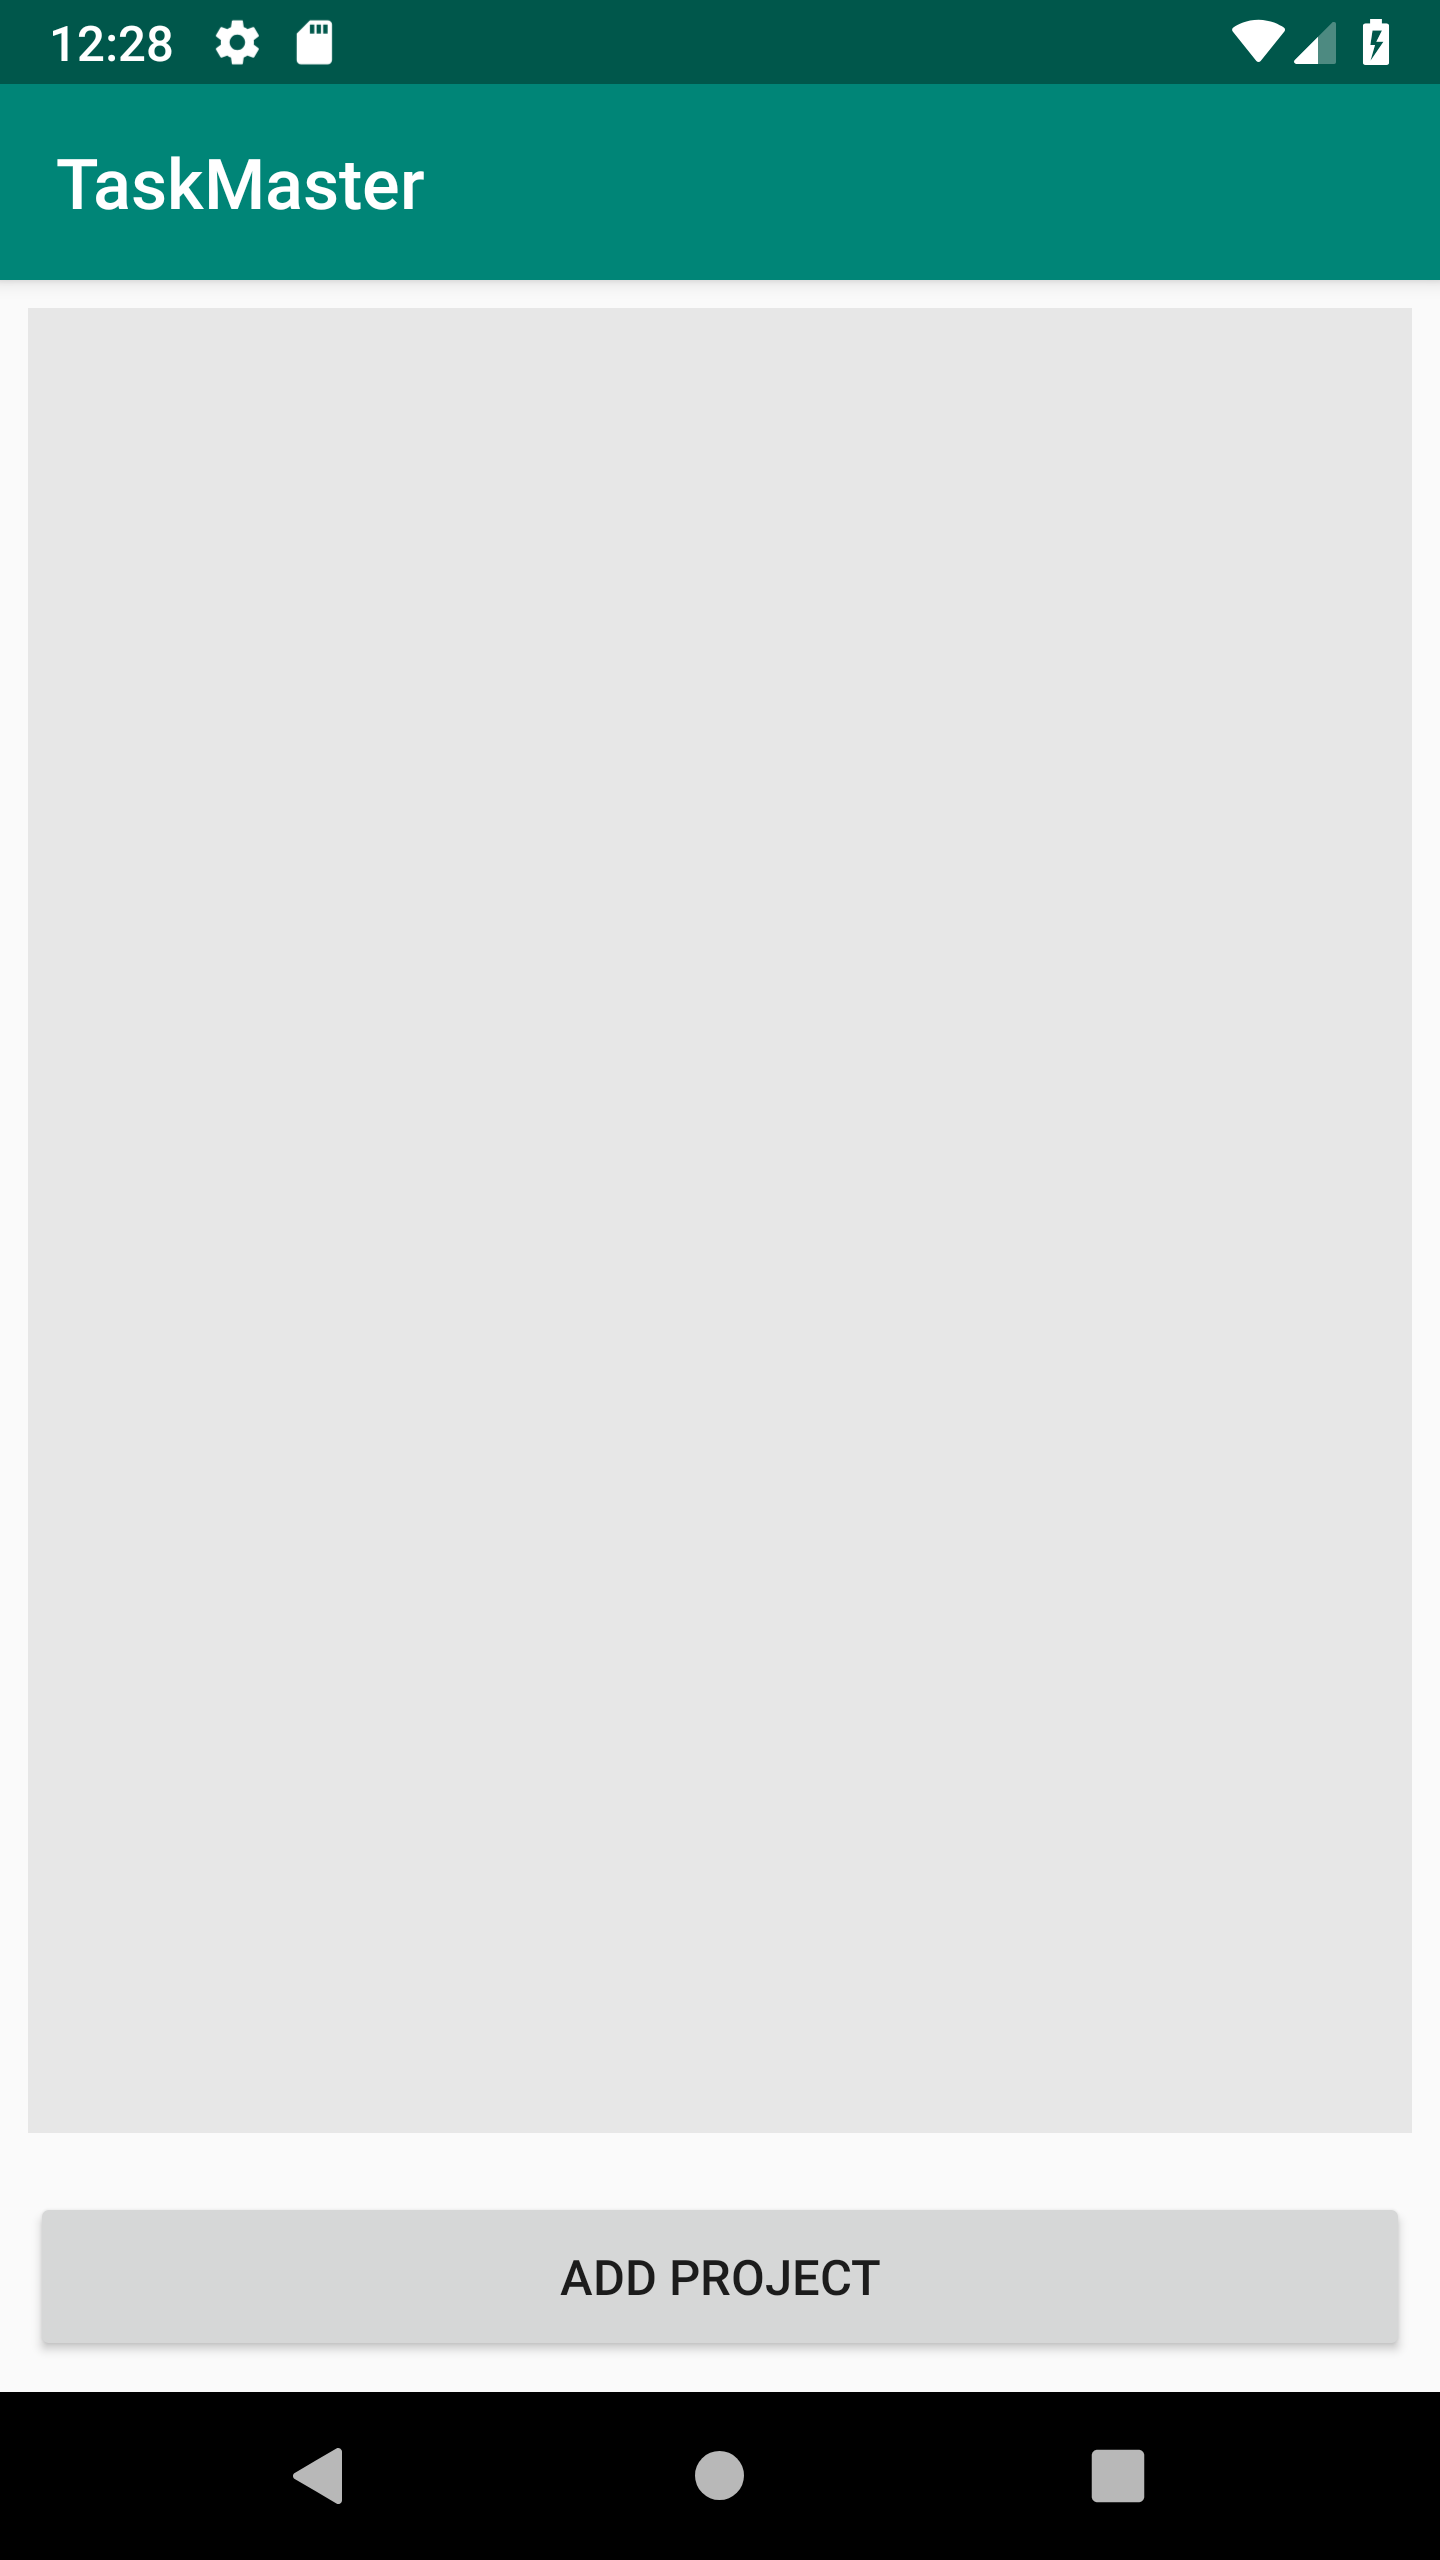
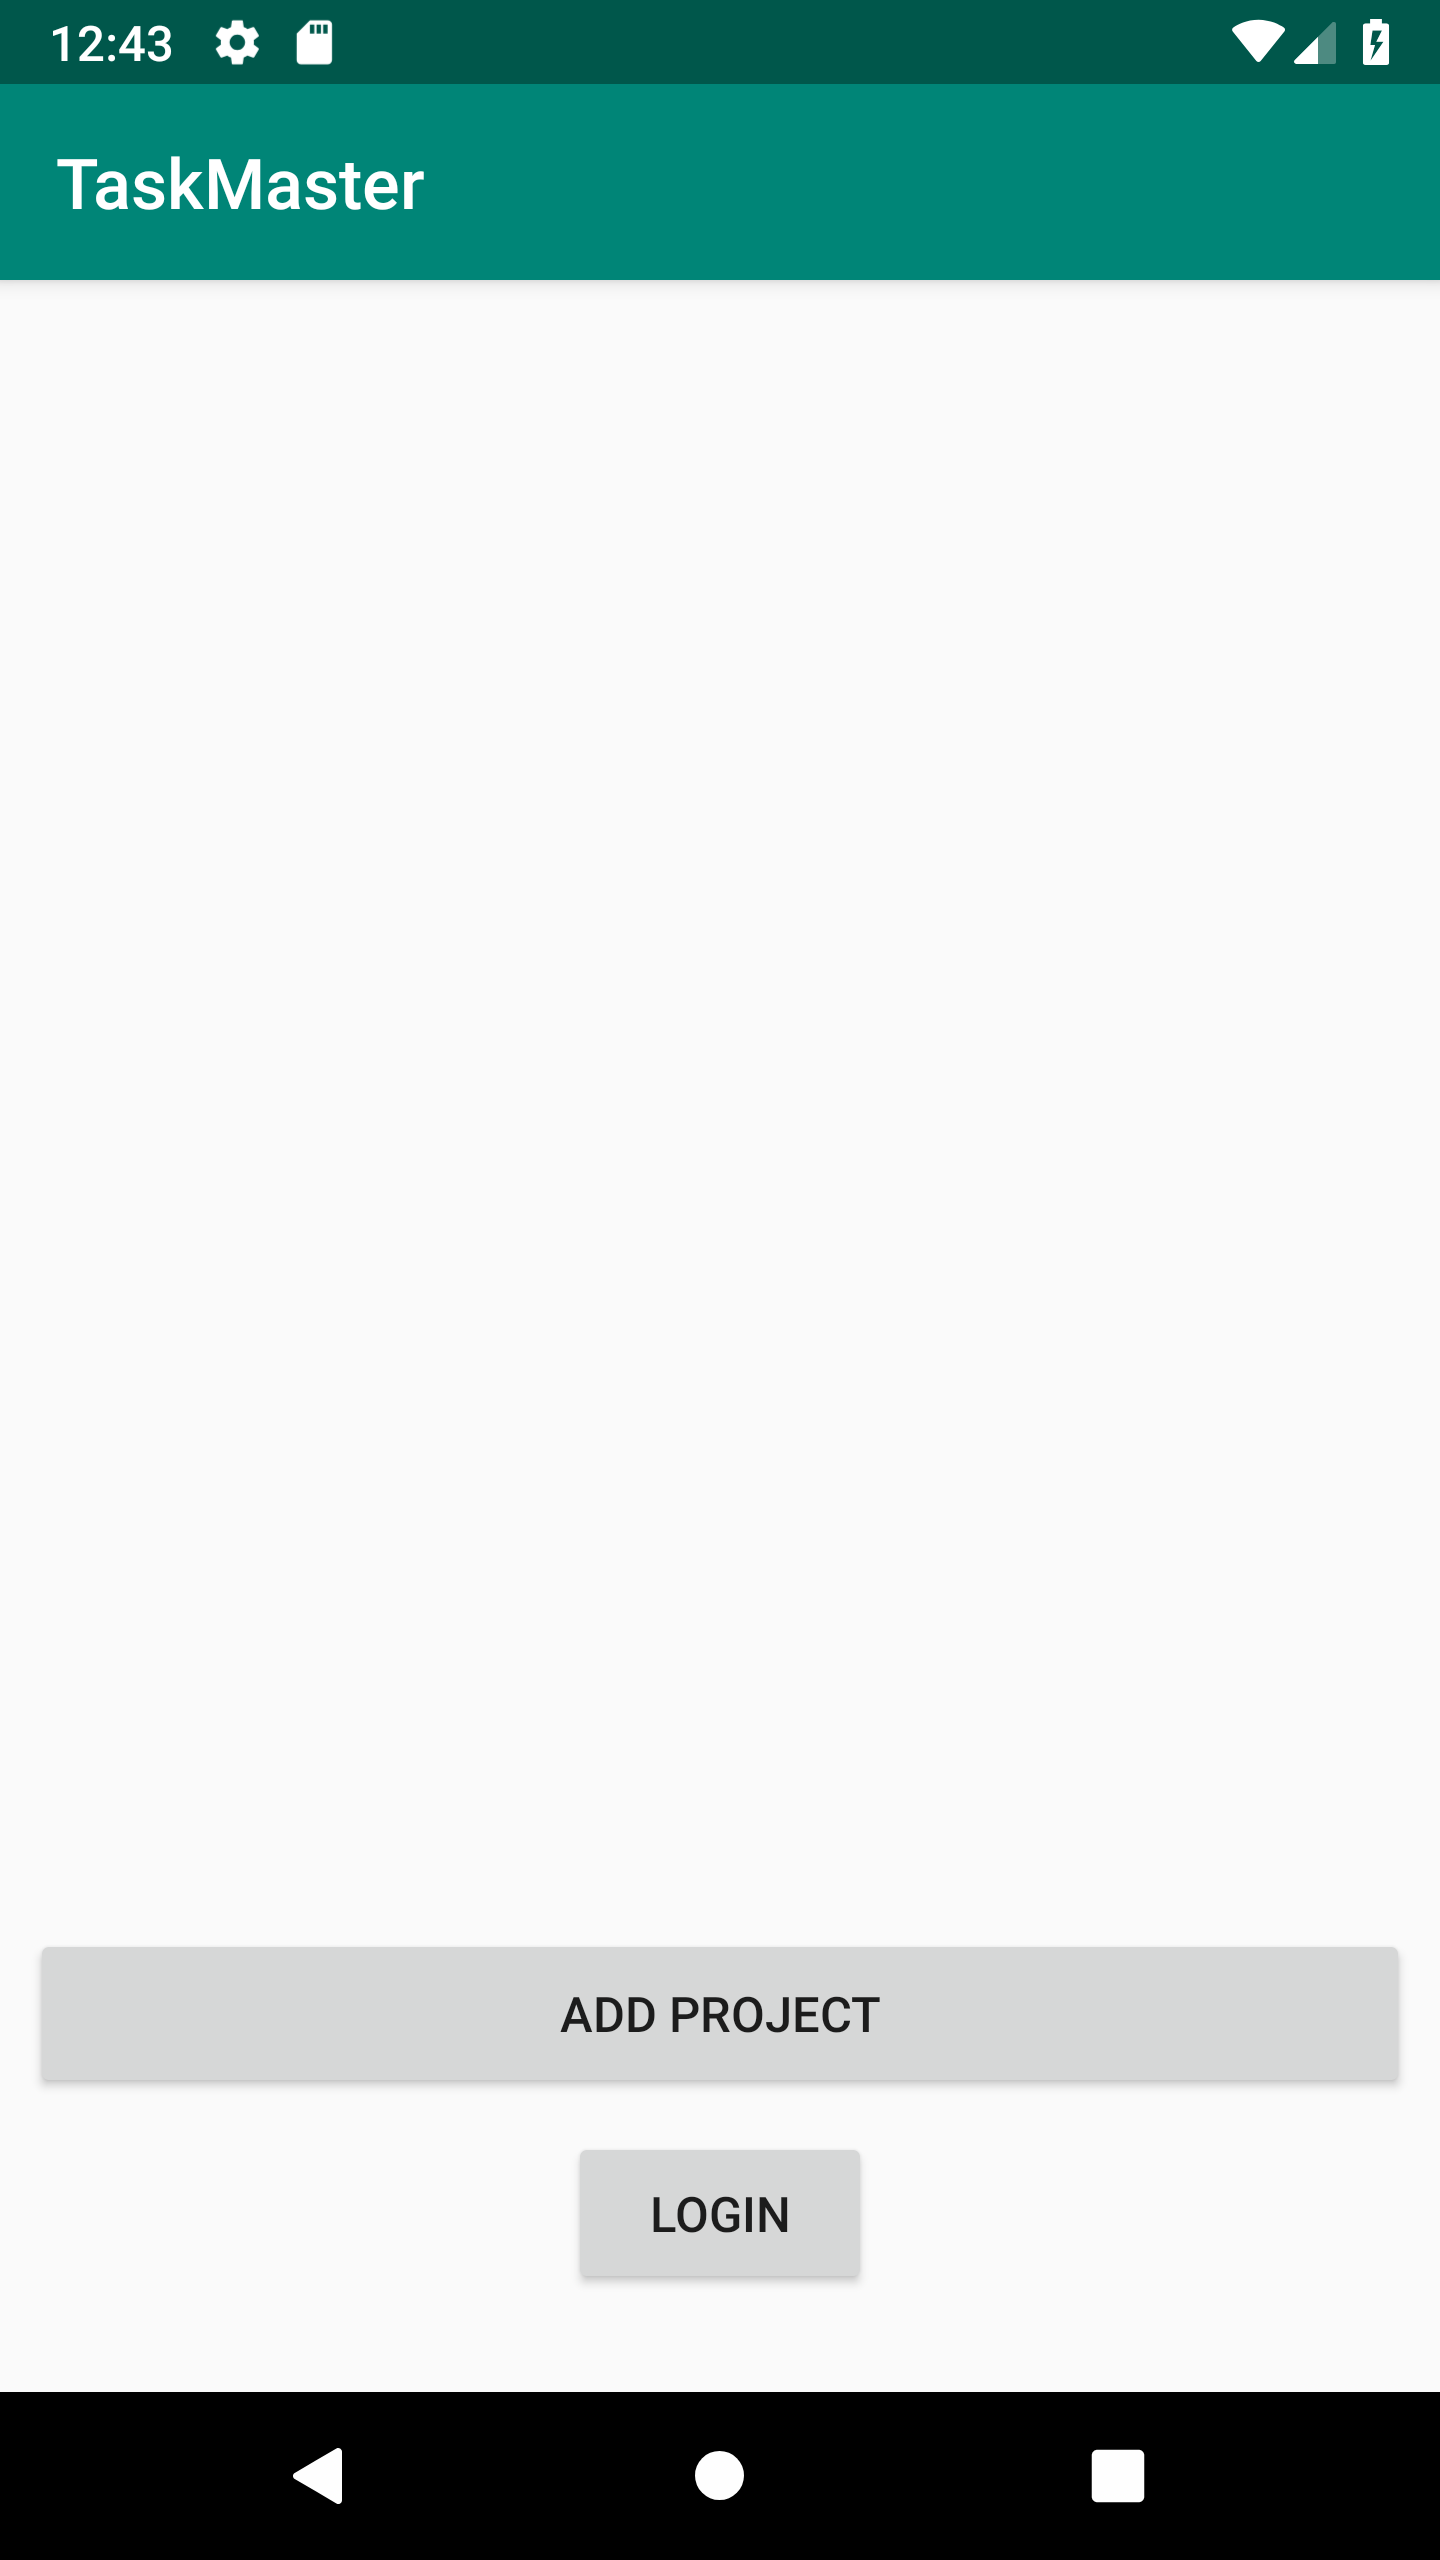
added login

Changed region(s): [[0.0312, 0.7812, 0.9688, 1.0], [0.0625, 0.0, 0.125, 0.0312]]

diff --git a/readme.md b/readme.md
@@ -40,12 +40,18 @@ Date: 1/31/19:
 * Home:
 
 <p float="left">
-  <img src="../assets/Home.png" width="150" />
+  <img src="../assets/home.png" width="150" />
 </p>
 
 * Createa Project:
 
 <p float="left">
   <img src="../assets/createproject.png" width="150" />
+</p>
+
+* Login View:
+
+<p float="left">
+  <img src="../assets/login.png" width="150" />
 </p>
 
